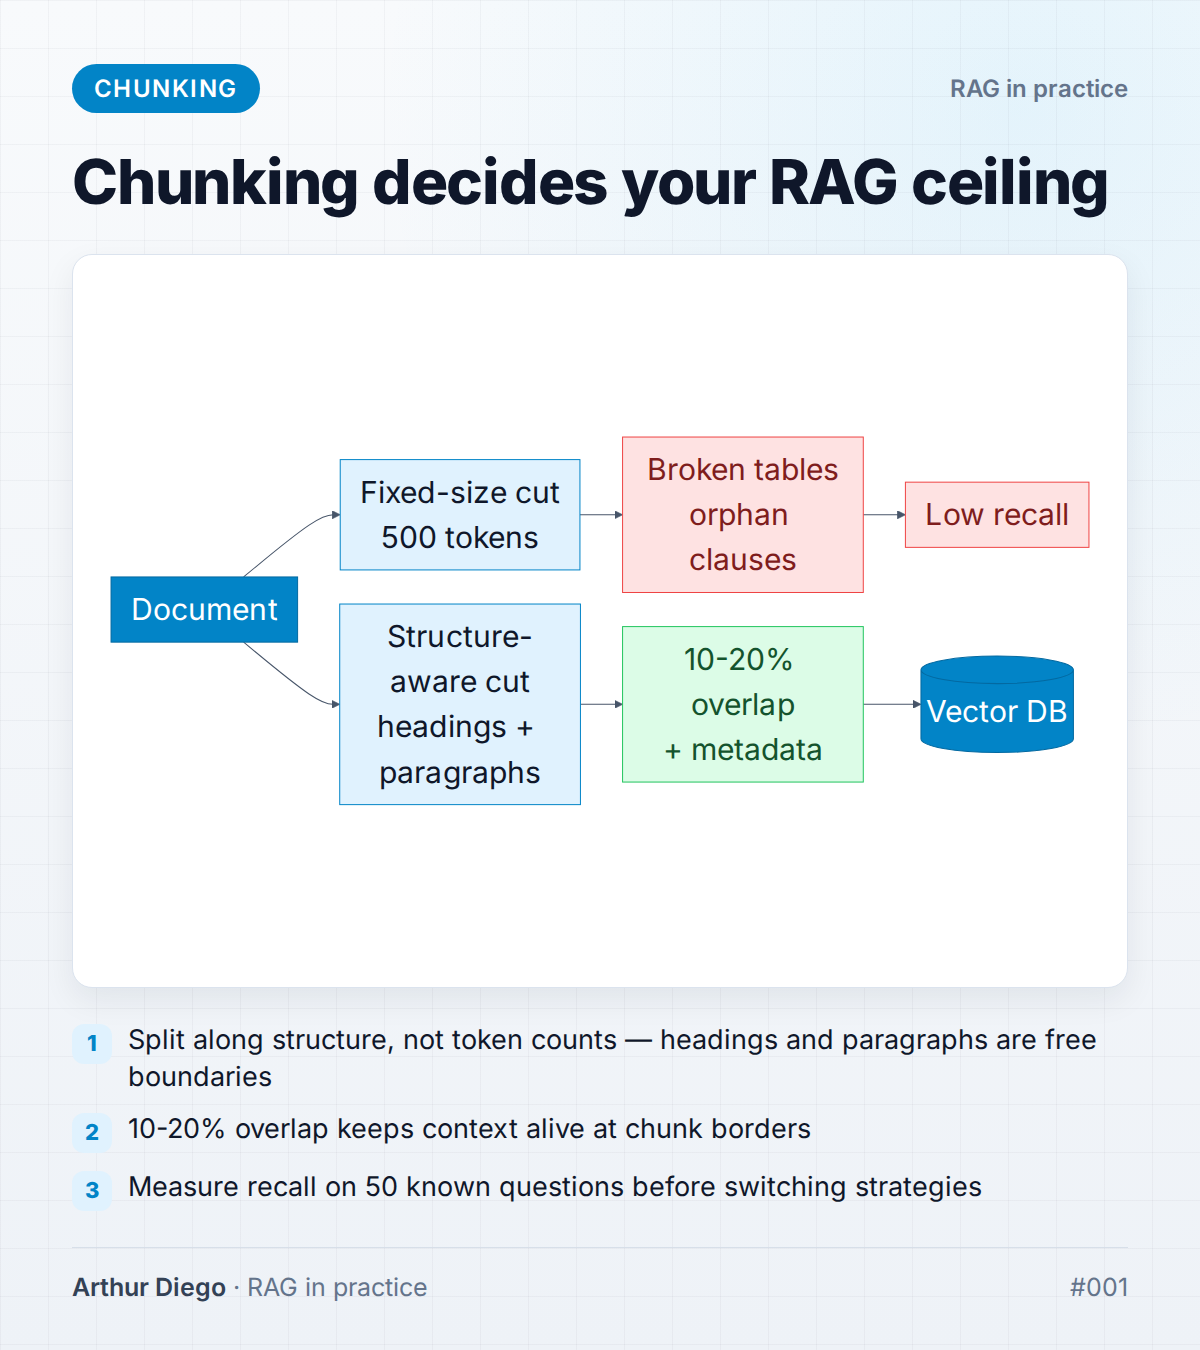
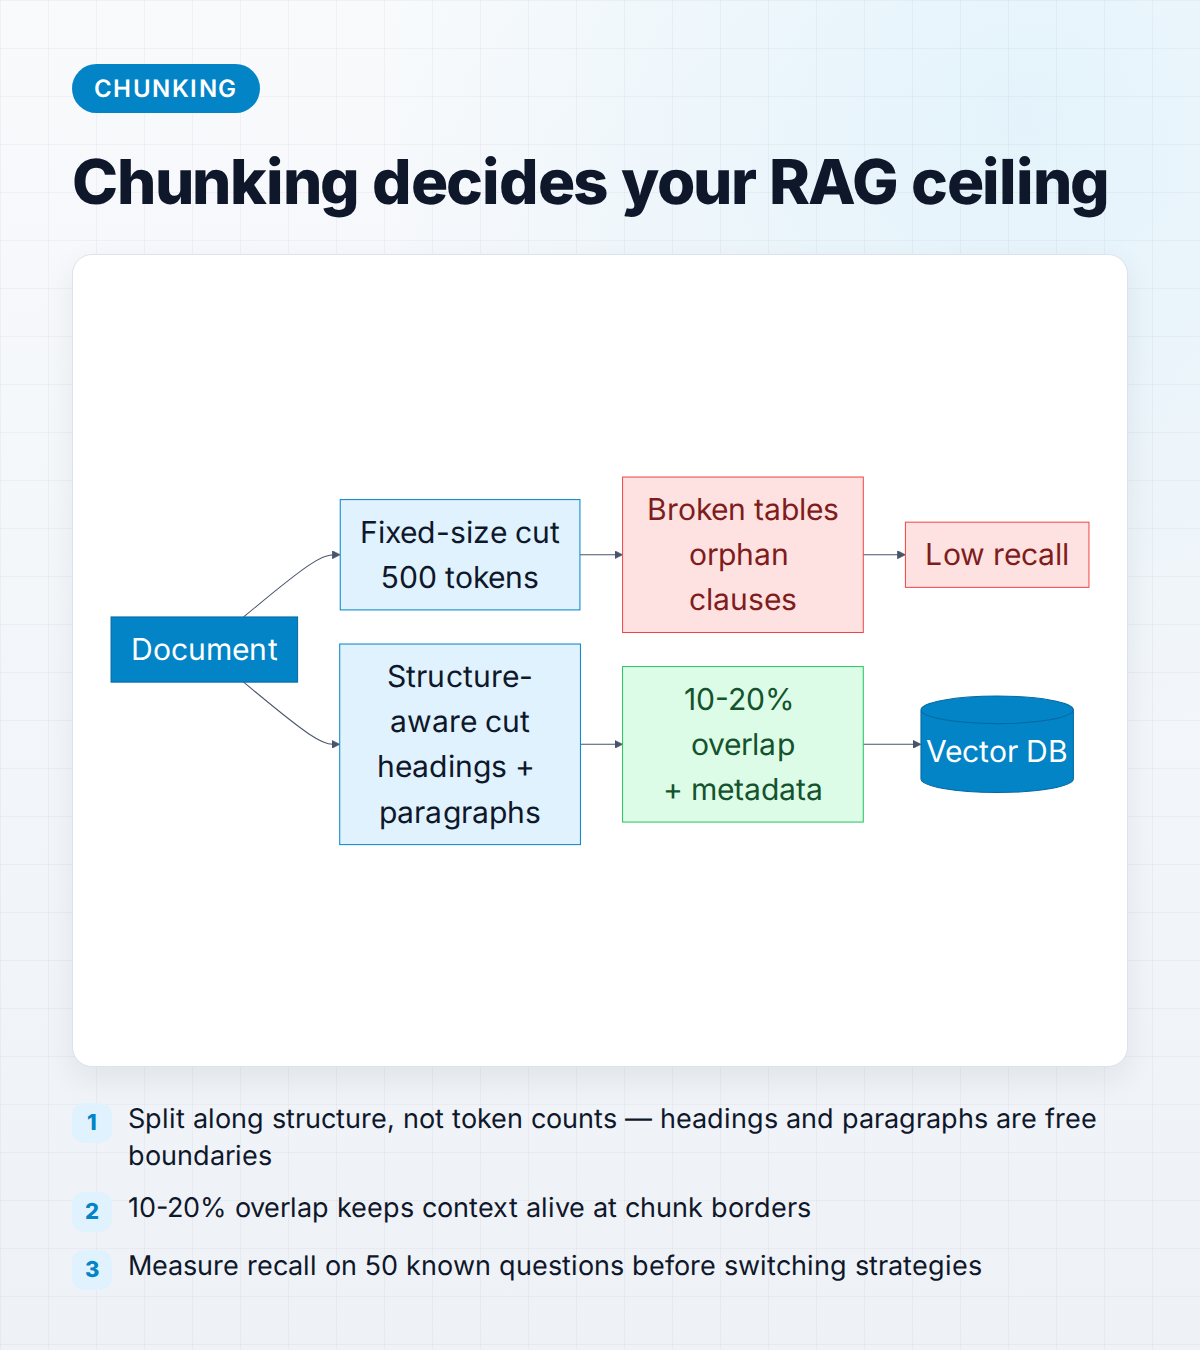
feat: image-walkthrough narrative in captions; remove name/brand from card
Every caption now narrates what the diagram shows (red path vs green path)
before the numbered insights — mandatory rule added to PROMPT_GERACAO. Card
footer (author + brand) and top-right brand removed per owner request: the
image carries only content.

diff --git a/assets/card_template.html b/assets/card_template.html
@@ -30,13 +30,12 @@
   }
   #card > * { position: relative; }
 
-  .top { display: flex; align-items: center; justify-content: space-between; }
+  .top { display: flex; align-items: center; }
   .chip {
     display: inline-block; padding: 10px 22px; border-radius: 999px;
     background: #0284c7; color: #fff;
     font-size: 24px; font-weight: 600; letter-spacing: .06em; text-transform: uppercase;
   }
-  .brand-top { font-size: 24px; font-weight: 600; color: #64748b; }
 
   h1 {
     margin-top: 34px;
@@ -58,7 +57,7 @@
   #diagram-box { display: flex; align-items: center; justify-content: center; }
   #diagram-box svg { display: block; }
 
-  .takeaways { margin-top: 34px; display: flex; flex-direction: column; gap: 16px; }
+  .takeaways { margin-top: 34px; margin-bottom: 12px; display: flex; flex-direction: column; gap: 16px; }
   .takeaway { display: flex; align-items: flex-start; gap: 16px; font-size: 27px; line-height: 1.35; }
   .takeaway .num {
     flex: 0 0 auto; width: 40px; height: 40px; border-radius: 12px;
@@ -67,31 +66,18 @@
     display: flex; align-items: center; justify-content: center; margin-top: 2px;
   }
   .takeaway b { font-weight: 600; }
-
-  .footer {
-    margin-top: 36px; padding-top: 24px;
-    border-top: 1px solid #d7dfe9;
-    display: flex; align-items: center; justify-content: space-between;
-    font-size: 25px; color: #64748b;
-  }
-  .footer .author { font-weight: 600; color: #334155; }
 </style>
 </head>
 <body>
 <div id="card">
   <div class="top">
     <span class="chip">{{TOPIC}}</span>
-    <span class="brand-top">RAG in practice</span>
   </div>
   <h1>{{TITLE}}</h1>
   <div class="diagram-panel">
     <div id="diagram-box"><pre class="mermaid">{{DIAGRAM}}</pre></div>
   </div>
   <div class="takeaways">{{TAKEAWAYS}}</div>
-  <div class="footer">
-    <span><span class="author">Arthur Diego</span> · RAG in practice</span>
-    <span>#{{NUMBER}}</span>
-  </div>
 </div>
 
 <script src="{{ASSETS}}/vendor/mermaid.min.js"></script>

diff --git a/src/linkedin_pipeline/renderer.py b/src/linkedin_pipeline/renderer.py
@@ -110,15 +110,6 @@ def render_card(post, out_path: Path, background: Image.Image | None = None) -> 
             y += 58
         y += 26
 
-    footer_font = _font(False, 34)
-    footer = "Arthur Diego  ·  RAG in practice"
-    fy = HEIGHT - MARGIN - 40
-    draw.line([MARGIN, fy - 30, WIDTH - MARGIN, fy - 30], fill=(72, 86, 112), width=2)
-    draw.text((MARGIN, fy), footer, font=footer_font, fill=MUTED)
-    num = f"#{post.id}"
-    draw.text((WIDTH - MARGIN - draw.textlength(num, font=footer_font), fy),
-              num, font=footer_font, fill=MUTED)
-
     out_path.parent.mkdir(parents=True, exist_ok=True)
     img.save(out_path, "PNG")
     return out_path

diff --git a/src/linkedin_pipeline/html_renderer.py b/src/linkedin_pipeline/html_renderer.py
@@ -38,7 +38,6 @@ def build_html(post, assets_dir: Path = DEFAULT_ASSETS) -> str:
         .replace("{{TITLE}}", html.escape(headline))
         .replace("{{DIAGRAM}}", html.escape(diagram))
         .replace("{{TAKEAWAYS}}", _takeaways_html(image_meta.get("bullets") or []))
-        .replace("{{NUMBER}}", html.escape(post.id))
     )
 
 

diff --git a/scripts/PROMPT_GERACAO.md b/scripts/PROMPT_GERACAO.md
@@ -55,13 +55,17 @@ Structure, in order:
    NEVER a question (questions as openers measurably underperform: −34%).
    Patterns: "500 tokens. That's where most RAG pipelines break." /
    "50 in, 5 out. That ratio fixes more systems than any model upgrade."
-2. **Explanation (the meat)**: 1-2 line paragraphs, heavy white space, plain
+2. **Image walkthrough (mandatory)**: 1-3 sentences that narrate the diagram —
+   name the red path and the green path and what each leads to ("The diagram shows
+   the fork. Red path: ... Green path: ..."). The reader must be pulled into the
+   image before the list starts.
+3. **Explanation (the meat)**: 1-2 line paragraphs, heavy white space, plain
    language. A numbered list of 3-4 production-grade steps with real numbers,
    thresholds and tool names. Teach the mechanism, not the marketing.
-3. **Reflection ("The bigger lesson: ...")**: one short paragraph that zooms out —
+4. **Reflection ("The bigger lesson: ...")**: one short paragraph that zooms out —
    what this topic teaches about building systems in general. Mandatory.
-4. **CTA**: ONE easy-to-answer question + 👇.
-5. **Hashtags**: exactly 2-3, niche, at the end (e.g. #RAG #AIEngineering). Never
+5. **CTA**: ONE easy-to-answer question + 👇.
+6. **Hashtags**: exactly 2-3, niche, at the end (e.g. #RAG #AIEngineering). Never
    more — 6+ measurably hurts reach.
 
 No external links in the body. Optimize for saves: the post should read as

diff --git a/content/queue/008-cache-semantico.md b/content/queue/008-cache-semantico.md
@@ -25,7 +25,7 @@ status: ready
 
 "How do I get an invoice copy?", "invoice copy", "resend my invoice" — three strings, one question, three full pipeline runs. Paying the LLM every time.
 
-Traditional caching can't help: the key never matches, because the phrasing never repeats. A semantic cache compares by embedding — similar enough to an answered question? Return the stored answer. Seconds become milliseconds; token cost becomes zero.
+Traditional caching can't help: the key never matches, because the phrasing never repeats. A semantic cache compares by embedding — that's the decision diamond in the diagram: similarity ≥ 0.95 takes the green shortcut (cached answer, ~ms, $0); anything below runs the full pipeline and stores the new answer with its source doc ids for invalidation.
 
 Three decisions separate a useful cache from a wrong-answer factory:
 

diff --git a/content/queue/007-graph-rag.md b/content/queue/007-graph-rag.md
@@ -24,7 +24,9 @@ status: ready
 
 One question, and your entire RAG breaks. Not because the model is weak — because similarity search answers LOCAL questions, where the answer lives in 1-2 chunks. Global questions have no right chunk: the answer is scattered across the collection.
 
-Graph RAG changes the structure:
+The diagram splits the world in two: local questions ride vector search and land on 1-2 chunks (green); global questions hit a red dead end there — no single right chunk exists — and only the knowledge-graph route, with entities and community summaries, reaches an answer.
+
+Graph RAG builds that route:
 
 1. At indexing, an LLM extracts entities and relations from each document → knowledge graph.
 

diff --git a/content/queue/003-hybrid-search.md b/content/queue/003-hybrid-search.md
@@ -25,7 +25,9 @@ status: ready
 ---
 2 searches. 1 fusion formula. That's the cheapest retrieval upgrade in RAG.
 
-Vector search finds what the user meant. Lexical search finds what the user typed. Production traffic needs both:
+Vector search finds what the user meant. Lexical search finds what the user typed. The diagram shows why you need both: each engine alone has a red failure branch — vectors miss exact codes, BM25 misses synonyms — and RRF fusion is the green node that erases both weaknesses.
+
+Production traffic proves it daily:
 
 A user asks about error "ORA-01555" — vector search returns semantically similar documents, but not THE document. An exact code isn't semantics. BM25 nails it.
 

diff --git a/content/queue/005-query-rewriting.md b/content/queue/005-query-rewriting.md
@@ -28,6 +28,8 @@ Months tuning the index. Zero minutes fixing the questions that hit it.
 
 That's the usual budget split in RAG — inverted. Because what actually reaches your retrieval is "the report thing doesn't work". No embedding model saves that query.
 
+The diagram starts exactly there — a vague, red query. Three rewriting techniques branch out of it, run their searches in parallel, and RRF merges everything into the green outcome: the right documents found.
+
 You have an LLM sitting right there. Rewriting text is what it does best:
 
 1. Multi-query — generate 3 variations with different vocabulary, search in parallel, merge with RRF. Bridges user jargon vs document jargon.

diff --git a/content/queue/006-avaliacao-rag.md b/content/queue/006-avaliacao-rag.md
@@ -25,6 +25,8 @@ status: ready
 
 That sentence has shipped more broken RAG systems than any bug. You tweak the chunking, the demo feels better, you deploy — and weeks later recall has quietly dropped for half the questions nobody tried.
 
+The diagram contrasts the two cultures: the red lane ("ship on vibes") flows straight into silent regressions; the green lane runs every change through a golden set, retrieval metrics and generation metrics before anything ships.
+
 The minimum evaluation kit:
 
 1. Golden set — 50-100 REAL questions from logs and tickets, each with the correct answer and source document annotated. One day of work.

diff --git a/content/queue/001-chunking.md b/content/queue/001-chunking.md
@@ -26,6 +26,8 @@ status: ready
 
 Fixed-size chunking is everyone's baseline — and the reason retrieval returns half a table, or a clause without its heading. The chunk arrives, but the meaning doesn't.
 
+The diagram shows the fork. Red path: a fixed 500-token cut slices through tables and clauses, and recall pays the price. Green path: cuts that follow the document's own structure, plus overlap and metadata, deliver retrieval-ready chunks to the vector DB.
+
 What actually works in production:
 
 1. Split along structure — headings, paragraphs, functions. Markdown gives you these boundaries for free.

diff --git a/content/queue/004-reranking.md b/content/queue/004-reranking.md
@@ -28,6 +28,8 @@ Vector search uses bi-encoders: query and document become vectors separately, th
 
 A reranker is a cross-encoder: it reads query and document TOGETHER and scores real relevance. Too slow for a whole corpus, perfect for a short list.
 
+Follow the two branches in the diagram: dumping the raw top-20 into the model (red) drags noise and hallucinations with it; inserting the reranker (green) means only 5 precision-picked chunks reach the LLM.
+
 The production pattern:
 
 1. Hybrid retrieval brings top-50 → optimizes recall.

diff --git a/content/queue/002-embeddings.md b/content/queue/002-embeddings.md
@@ -27,6 +27,8 @@ That's the real cost equation of choosing an embedding model — and almost ever
 
 The trap: benchmarks measure generic corpora. Your domain has legal jargon, source code, or non-English text — and models that win on averages routinely lose there.
 
+That's the two roads in the diagram: the red one stops at the leaderboard and inherits its blind spots; the green one runs 2-3 candidates against your own 50 questions and lets recall@k, latency and cost pick the winner.
+
 The process that works:
 
 1. Pick 2-3 candidates.
